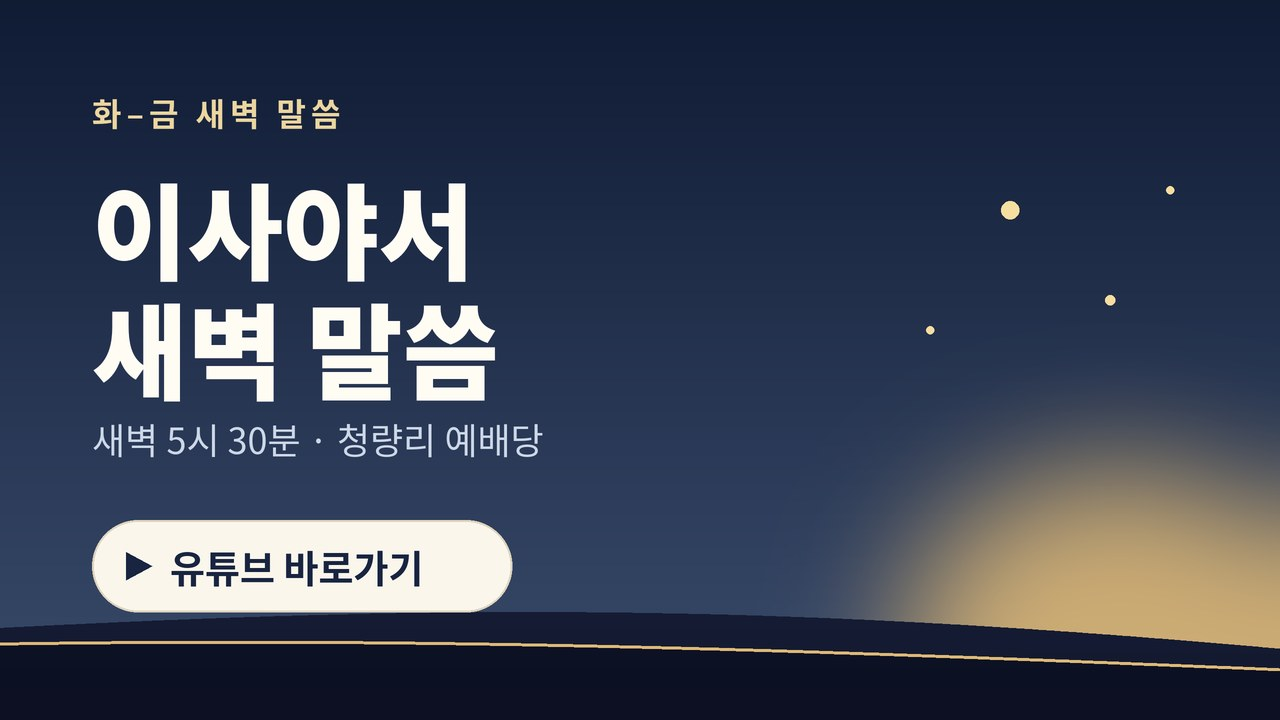
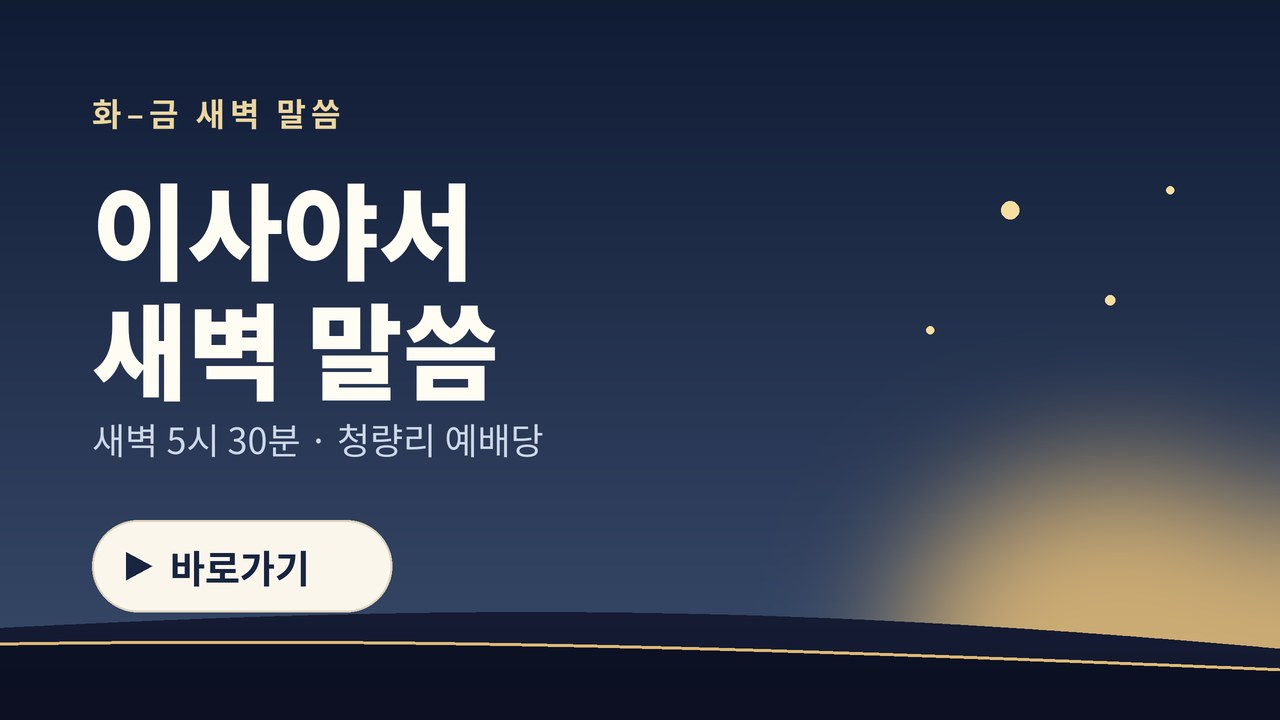
세 배너 버튼 글자를 '▶ 바로가기'로 통일
Claude-Session: https://claude.ai/code/session_01SUQQLDh1VZ9DJkmDKHFesn

Changed region(s): [[0.125, 0.7028, 0.4062, 0.8556]]

diff --git a/CLAUDE.md b/CLAUDE.md
@@ -13,7 +13,7 @@
   - 주일 줄: 절기별 배너. `index.html`의 `SUNDAY_SEASON`에 [마지막 날짜, 파일 이름]을 날짜순으로 적는다. 지금은 ~11/22 `videos/sunday-creation.jpg`, ~12/24 `videos/sunday-advent.jpg`. 마지막 날짜가 지나면 `videos/sunday-default.jpg`.
   - 새벽 줄: `videos/dawn-banner.jpg`
   - 어린이 줄: `videos/kids-channel.jpg`
-  - 배너 규격 1280×720. 안 문구는 특정 설교가 아니라 안내 문구('함께 드리는 주일 예배' 등)로 두고, 버튼 글자는 '▶ 유튜브 바로가기'.
+  - 배너 규격 1280×720. 안 문구는 특정 설교가 아니라 안내 문구('함께 드리는 주일 예배' 등)로 두고, 버튼 글자는 '▶ 바로가기'(세 배너 모두).
   - 연결 주소: `SUNDAY_LIST`·`DAWN_LIST`(재생목록), `KIDS_CHANNEL`
 - **영상 모두 보기 페이지는 없다** (2026.11.19 닫음). 지난 영상은 각 영상 표지를 눌러 유튜브에서 본다(홈에 채널 링크 줄은 두지 않는다, 2026.11.19).
 - **표지**
